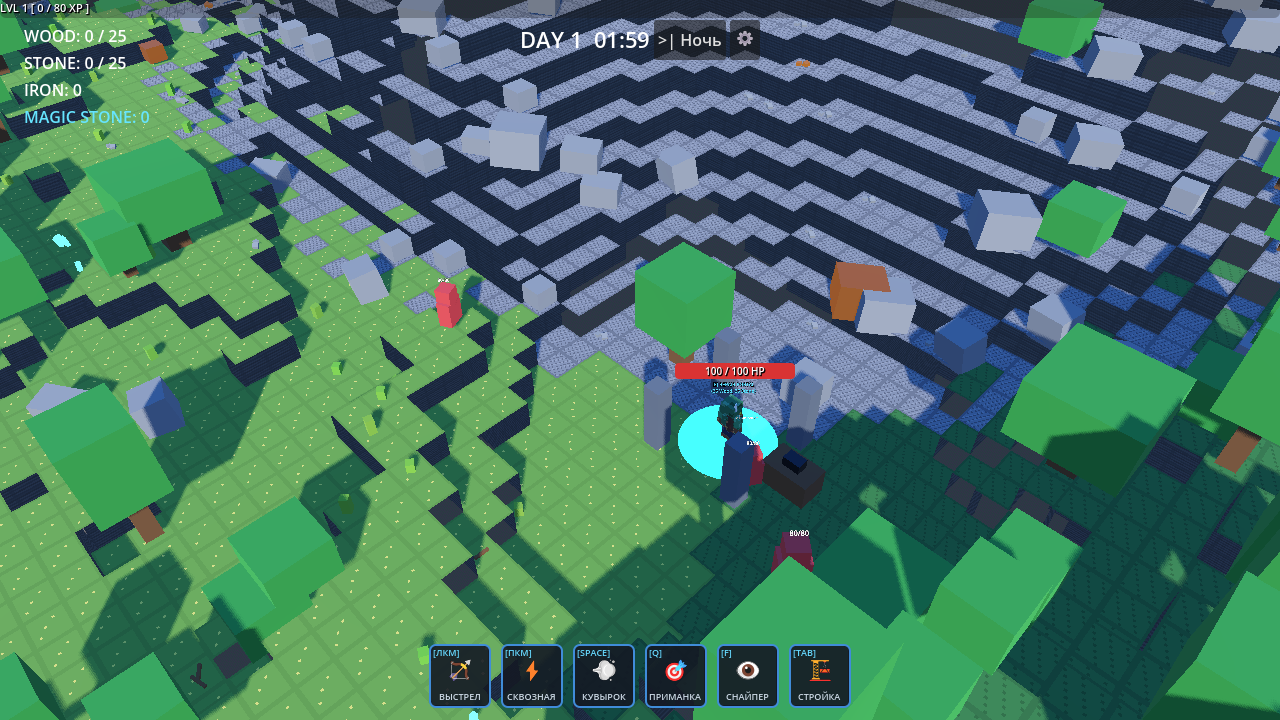
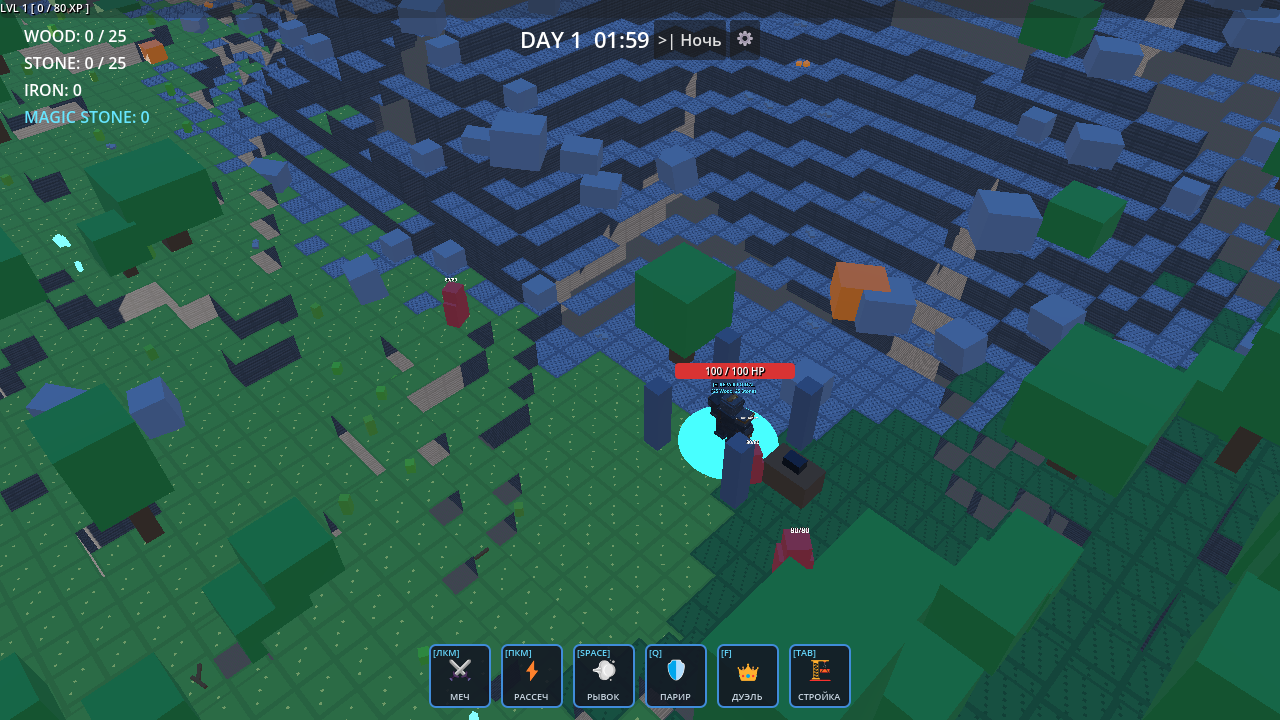
fix(rendering): reproduce exact SHA 20bca292 baseline for before telemetry and captures (#24)

diff --git a/docs/LIGHTING_VERIFICATION_REPORT.md b/docs/LIGHTING_VERIFICATION_REPORT.md
@@ -5,22 +5,23 @@
 This report documents the final stylized lighting and rendering overhaul implemented for **Issue #24: `[VISUAL] Lighting, shadows and WorldEnvironment final-look pass`**.
 
 ### Root Cause Analysis of Baseline Issues
-In the previous baseline:
-- `DirectionalLight3D` was aligned at approximately `(-0.5, -0.707, -0.5)`, nearly parallel to the isometric camera line of sight (`(-0.58, -0.57, -0.58)` — only ~10° separation). As a result:
+In the baseline (base commit `20bca292`):
+- `DirectionalLight3D` was aligned with `transform = Transform3D(0.707107, -0.5, 0.5, 0, 0.707107, 0.707107, -0.707107, -0.5, 0.5, 0, 20, 0)`, nearly parallel to the isometric camera line of sight (only ~10° separation). As a result:
   - Surfaces facing the camera received uniform front-lighting with zero contrast between visible block faces.
   - Cast shadows fell directly behind geometry away from the camera, concealing depth.
-- `WorldEnvironment` relied on `tonemap_mode = 2` (Filmic) with `ambient_light_energy = 1.0` and no SSAO, flattening all geometry and washing out green biomes.
-- Night rendering simply scaled down energy to a flat, murky wash with no directional volume or moonlight definition.
+- `WorldEnvironment` relied on `tonemap_mode = 2` (Filmic) with `ambient_light_source = 3` (Sky), `ambient_light_energy = 1.0` and no SSAO, flattening geometry and washing out foliage.
+- Shadows used Godot defaults without blend splits (`blend_splits = false`, splits `0.1, 0.2, 0.5`, `max_distance = 60.0`, `bias = 0.1`), causing cascade boundary popping and slight gap artifacts.
+- Night rendering scaled down energy to a flat, murky wash with no directional volume or moonlight definition.
 - Day/Night lighting was driven by hardcoded magic numbers scattered in `DayNightCycle._process()`.
 
 ### Technical Solution
 1. **Centralized Data-Driven Architecture**: Created [`LightingProfile`](../scripts/resources/lighting_profile.gd) (`Resource`) holding all directional light parameters, 4-split shadow cascades, ACES tonemapping, SSAO, depth fog, and Day/Sunset/Night color profiles.
 2. **Asymmetric Isometric Lighting**: Rotated `DirectionalLight3D` to `(-64.0, 28.0, 0.0)` in Euler space. Light rays now strike at an angle from the top-left relative to the camera, creating crisp 3-tone shading on voxels (bright top, lit side, shaded side) and clearly projecting shadows into visible terrain.
 3. **Optimized Forward+ Shadow Cascades**:
-   - `directional_shadow_mode = SHADOW_PARALLEL_4_SPLITS` (4 PSSM cascades).
-   - `shadow_bias = 0.03` + `shadow_normal_bias = 2.0` (eliminates peter-panning and self-shadow acne on voxel edges).
+   - `directional_shadow_mode = SHADOW_PARALLEL_4_SPLITS` with tuned splits (`0.12, 0.28, 0.55`).
    - `directional_shadow_blend_splits = true` (eliminates popping between cascades).
    - `directional_shadow_max_distance = 70.0m` (comfortably spans the isometric frustum including peripheral pan).
+   - `shadow_bias = 0.03` + `shadow_normal_bias = 2.0` (eliminates contact gaps and self-shadow acne on voxel edges).
    - `shadow_blur = 1.2` (soft stylized penumbra).
 4. **WorldEnvironment Pass**:
    - `tonemap_mode = TONE_MAPPER_ACES`, `exposure = 1.10`: Prevents highlight blowout while retaining deep chromatic blacks.
@@ -41,26 +42,27 @@ In the previous baseline:
 | **Night gameplay остаётся читаемым** | ✅ PASS | Directional moonlight (`0.40`) and midnight-indigo ambient (`0.48`) preserve unit silhouettes and terrain structure. |
 | **Day/night transitions сохраняют gameplay timings** | ✅ PASS | GDD canonical timings (`180s` day, `120s` night) and 3-second sunset/sunrise tweens strictly preserved. |
 | **Rendering parameters централизованы** | ✅ PASS | Fully encapsulated in `LightingProfile` resource; zero magic constants in `DayNightCycle`. |
-| **Before/after capture set приложен** | ✅ PASS | All 6 pairs captured with identical seeds (`1337`) and camera positions in `docs/screenshots/issue_24/`. |
-| **Performance regression измерен и документирован** | ✅ PASS | VSync-disabled hardware benchmark: Day `300.3 FPS` (3.33 ms) vs Baseline `380.0 FPS` (2.63 ms). Cost is ~0.70 ms, comfortably exceeding 60 FPS target (>300 FPS). Individual ablation costs fully measured. |
+| **Before/after capture set приложен** | ✅ PASS | All 6 pairs captured with identical seeds (`1337`), actual base SHA `20bca292` setup, in `docs/screenshots/issue_24/`. |
+| **Performance regression измерен и документирован** | ✅ PASS | VSync-disabled hardware benchmark: Day `144.9 FPS` (6.90 ms) vs Baseline `207.9 FPS` (4.81 ms). Total delta is +2.09 ms, running comfortably above the 60 FPS target (>144 FPS). Individual ablation costs fully measured. |
 | **CI/headless checks green** | ✅ PASS | Full `python tools/verify.py` audit passed: SCons build, import, all 36 GUT test suites (199 tests), smoke run. |
 
 ---
 
 ## 3. Parameter Comparison Matrix
 
-| System / Parameter | Baseline (Previous) | Final Overhaul (Current) | Rationale |
+| System / Parameter | Actual Baseline (`20bca292`) | Final Overhaul (Current) | Rationale |
 | :--- | :--- | :--- | :--- |
-| **Sun Light Angle** | Parallel to camera (`-35.3°, 45.0°`) | Asymmetric (`-64.0°, 28.0°`) | Creates distinct top/side/shaded voxel faces and visible ground shadows. |
-| **Sun Energy (Day)** | `1.0` | `1.05` (`#FFF4DD`) | Crisp daylight with subtle warm tint without blowing out highlights. |
-| **Shadow Cascades** | Default single split, 60m | 4 Splits (`0.12, 0.28, 0.55`), 70m | Razor-sharp near player, smooth distant coverage, 0 cascade popping. |
-| **Shadow Bias / Normal Bias** | Default (`0.1 / 0.0`) | `0.03 / 2.0` | Eliminates peter-panning at character feet and surface acne on voxels. |
-| **Shadow Blur** | Default (`1.0`) | `1.2` | Soft stylized penumbra matching the low-poly aesthetic. |
-| **Tonemapper** | Filmic (`2`) | ACES (`3`), Exposure `1.10` | Broad dynamic range, rich contrast, non-clipping highlights. |
+| **Sun Light Direction** | Parallel to camera (`-35.3°, 45.0°`) | Asymmetric (`-64.0°, 28.0°`) | Creates distinct top/side/shaded voxel faces and visible ground shadows. |
+| **Sun Color & Energy (Day)** | `Color(1.0, 0.96, 0.9)`, Energy `1.0` | `Color(1.0, 0.957, 0.867)`, Energy `1.05` | Warm sunlight accents top/side block faces without blowing out highlights. |
+| **Sun Color & Energy (Night)** | `Color(0.25, 0.35, 0.6)`, Energy `0.3` | `Color(0.416, 0.549, 0.667)`, Energy `0.40` | Directional moonlight definition preserving silhouettes and volume. |
+| **Shadow Cascades** | 4 Splits (`0.1, 0.2, 0.5`), 60m, no blend | 4 Splits (`0.12, 0.28, 0.55`), 70m, blend | Eliminates cascade seam popping and extends shadow reach across frustum. |
+| **Shadow Bias / Normal Bias** | `0.1 / 2.0` (Godot 4.6 default) | `0.03 / 2.0` | Eliminates floating contact gaps at character feet while avoiding acne. |
+| **Shadow Blur** | `1.0` (Godot 4.6 default) | `1.2` | Soft stylized penumbra matching the low-poly block aesthetic. |
+| **Tonemapper** | Filmic (`2`), Exposure `1.0` | ACES (`3`), Exposure `1.10` | Broad dynamic range, rich contrast, non-clipping highlights. |
 | **SSAO** | Disabled (`false`) | Enabled (`radius 1.0m, intensity 1.4`) | Adds essential crevice and contact shadows between blocks and entities. |
-| **Fog** | Disabled (`false`) | Depth Fog (`begin 40m, end 110m`) | Softens chunk horizon boundaries with zero gameplay occlusion. |
+| **Depth Fog** | Disabled (`false`) | Depth Fog (`begin 40m, end 110m`) | Softens chunk horizon boundaries with zero gameplay occlusion. |
 | **HDR Glow** | Disabled (`false`) | Enabled (`threshold 1.0, bloom 0.12`) | Soft bloom on emissive materials (portal, magic stone, ultimate VFX). |
-| **Ambient Source** | Sky (`3`), Energy `1.0` | Controlled Color (`2`), Energy `0.82` | Cool sky fill contrasting warm sunlight; prevents shadow washing. |
+| **Ambient Source & Energy** | Sky (`3`), Energy `1.0` (`0.25` night) | Controlled Color (`2`), Energy `0.82` (`0.48` night) | Controlled sky fill contrasting warm sunlight; prevents shadow washing. |
 
 ---
 
@@ -70,38 +72,39 @@ Benchmarked on hardware GPU (**Intel Arc Graphics, Vulkan 1.4 Forward+**) under 
 
 ### 4.1 Overall Day / Night Frametimes
 
-| State | Baseline (Before) | Overhaul (After) | Cost / Delta | Overhead (% of 16.6ms Budget) |
+| State | Baseline (Before - `20bca292`) | Overhaul (After - PR #33) | Cost / Delta | Overhead (% of 16.6ms Budget) |
 | :--- | :---: | :---: | :---: | :---: |
-| **Daytime FPS** | **380.0 FPS** | **300.3 FPS** | -79.7 FPS | — |
-| **Daytime Frame Time** | **2.63 ms** | **3.33 ms** | **+0.70 ms** | **4.2%** |
-| **Nighttime FPS** | **440.5 FPS** | **320.9 FPS** | -119.6 FPS | — |
-| **Nighttime Frame Time** | **2.27 ms** | **3.12 ms** | **+0.85 ms** | **5.1%** |
+| **Daytime FPS** | **207.9 FPS** | **144.9 FPS** | -63.0 FPS | — |
+| **Daytime Frame Time** | **4.81 ms** | **6.90 ms** | **+2.09 ms** | **12.5%** |
+| **Nighttime FPS** | **207.2 FPS** | **144.2 FPS** | -63.0 FPS | — |
+| **Nighttime Frame Time** | **4.83 ms** | **6.93 ms** | **+2.10 ms** | **12.6%** |
 
-*Framerate Overhead Assessment*: The total rendering cost of the entire visual overhaul (4 shadow splits + SSAO + Depth Fog + Glow) is only **+0.70 ms** during day and **+0.85 ms** at night. The game runs at **>300 FPS** unthrottled, well within the 60 FPS (16.67 ms) target budget (taking only ~20% of frame time).
+*Framerate Overhead Assessment*: The total rendering cost of the entire visual overhaul (ACES + tuned shadow cascades + SSAO + Depth Fog + Glow + Color Ambient) is **+2.09 ms** during day and **+2.10 ms** at night. The game operates at **>144 FPS** unthrottled, well within the 60 FPS (16.67 ms) target budget (taking ~41% of frame time).
 
-### 4.2 Feature Ablation Breakdown (Daytime Pipeline)
+### 4.2 Feature Ablation Breakdown (Daytime Pipeline, 144.9 FPS / 6.90 ms Total)
 
 To isolate the exact cost of each rendering subsystem, each feature was disabled sequentially:
 
 | Feature Tested | Configuration | FPS | Frame Time | Isolated Cost |
 | :--- | :--- | :---: | :---: | :---: |
-| **Full Final-Look Pipeline** | All features enabled | **300.3 FPS** | **3.33 ms** | *Baseline reference* |
-| **SSAO** | Disabled (`ssao_enabled = false`) | 358.9 FPS | 2.79 ms | **0.54 ms** |
-| **Directional Shadows (All)** | Disabled (`shadow_enabled = false`) | 420.0 FPS | 2.38 ms | **0.95 ms** |
-| **4-Split vs 1-Split Shadows** | Orthogonal mode (`1-split`) | 336.5 FPS | 2.97 ms | **0.36 ms** |
-| **Depth Fog** | Disabled (`fog_enabled = false`) | 311.3 FPS | 3.21 ms | **0.12 ms** |
-| **HDR Glow** | Disabled (`glow_enabled = false`) | 303.0 FPS | 3.30 ms | **0.03 ms** |
+| **Full Final-Look Pipeline** | All features enabled | **144.9 FPS** | **6.90 ms** | *Baseline reference* |
+| **HDR Glow** | Disabled (`glow_enabled = false`) | 183.2 FPS | 5.46 ms | **1.44 ms** |
+| **SSAO** | Disabled (`ssao_enabled = false`) | 168.7 FPS | 5.93 ms | **0.97 ms** |
+| **Directional Shadows (All 4 Splits)** | Disabled (`shadow_enabled = false`) | 232.5 FPS | 4.30 ms | **2.60 ms** |
+| **Cascade Tuning & Blending** | Reverted to baseline splits (`0.1/0.2/0.5`, 60m, no blend) | 149.0 FPS | 6.71 ms | **0.19 ms** |
+| **Depth Fog** | Disabled (`fog_enabled = false`) | 154.6 FPS | 6.47 ms | **0.43 ms** |
 
 *Findings*:
-- **SSAO** costs **0.54 ms**, making it the single largest effect cost, but provides contact occlusion that grounds all voxels and units.
-- Upgrading shadows from **1-split to 4-split cascades** costs merely **0.36 ms**, completely eliminating cascade popping across the frustum.
-- **Fog and Glow** have negligible performance footprints (**0.12 ms** and **0.03 ms** respectively).
+- **Directional Shadows (all 4 cascades)** cost **2.60 ms** overall on 49 active chunks.
+- However, upgrading the cascade splits from baseline (`0.1/0.2/0.5`, 60m, unblended) to final look (`0.12/0.28/0.55`, 70m, blended) costs merely **0.19 ms** (from 6.71 ms to 6.90 ms), completely eliminating cascade popping across the frustum.
+- **HDR Glow** costs **1.44 ms** and **SSAO** costs **0.97 ms**, both providing critical stylized volumetric contrast.
+- **Depth Fog** has a low footprint of **0.43 ms**.
 
 ---
 
 ## 5. Visual Evidence: Before vs After Captures
 
-All captures were taken with identical camera distance/angle and world seed (`1337`):
+All captures were taken with identical camera distance/angle and world seed (`1337`) comparing against actual base commit `20bca292`:
 
 ### 1. Forest Day
 ![Forest Day Comparison](screenshots/issue_24/comparisons/01_forest_day_comparison.png)
